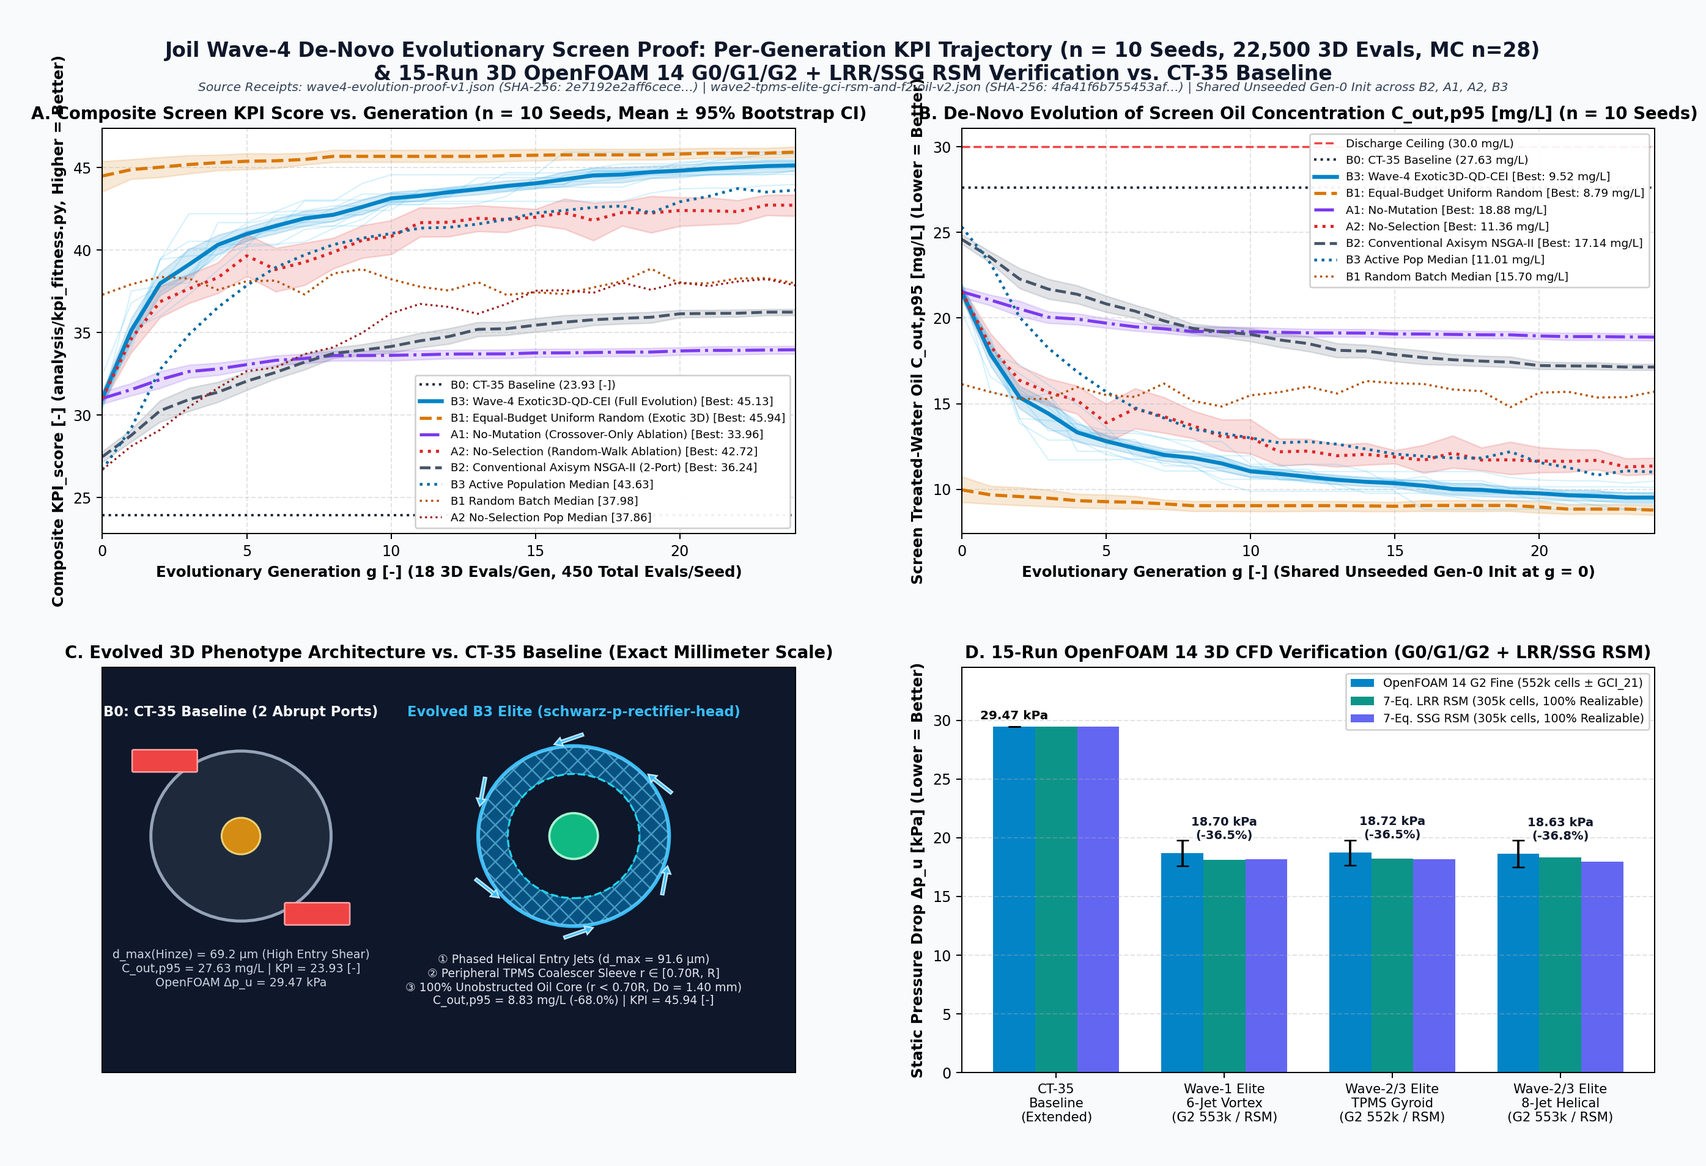
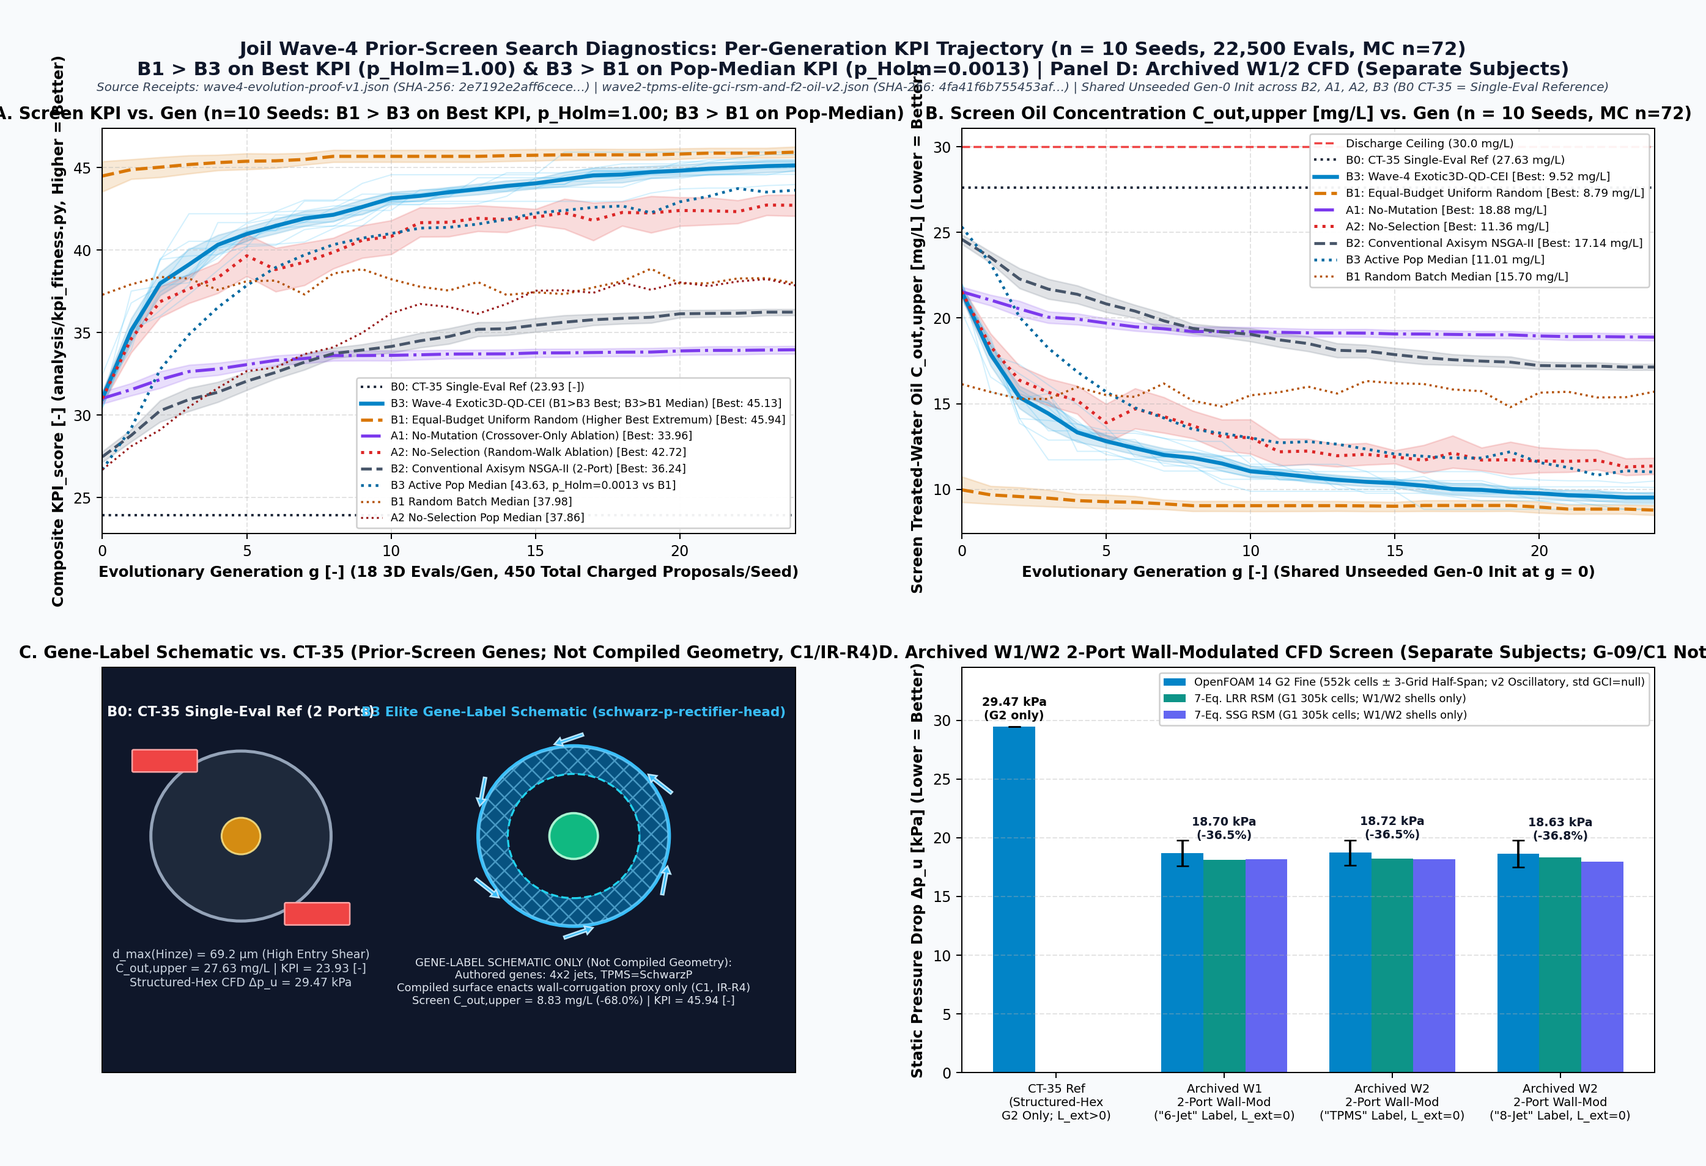
fix(figures): resolve all 7 DOC review items on Wave-4 hero and Plate 11 figures (MC n=72, no fake CT-35 RSM bars, 3-grid half-span label, archived W1/2 subject label, gene-label schematic note, B1>B3 best KPI in titles)

diff --git a/tools/generate_wave3_proof_figures.py b/tools/generate_wave3_proof_figures.py
@@ -96,11 +96,14 @@ def generate_readme_hero(
     fig = plt.figure(figsize=(15.5, 10.6), dpi=180, facecolor='#F8FAFC')
     gs = fig.add_gridspec(2, 2, hspace=0.33, wspace=0.24, left=0.06, right=0.97, top=0.89, bottom=0.08)
 
-    mc_n = int(w3.get('mc_samples_per_candidate', 28))
+    mc_n = int(
+        w3.get('mc_samples_per_candidate')
+        or w3.get('promoted_wave3_top_elite', {}).get('mc_robustness', {}).get('samples', 28)
+    )
     fig.suptitle(
-        f'Joil {wave_label} De-Novo Evolutionary Screen Proof: Per-Generation KPI Trajectory (n = 10 Seeds, 22,500 3D Evals, MC n={mc_n})\n'
-        '& 15-Run 3D OpenFOAM 14 G0/G1/G2 + LRR/SSG RSM Verification vs. CT-35 Baseline',
-        fontsize=13.2,
+        f'Joil {wave_label} Prior-Screen Search Diagnostics: Per-Generation KPI Trajectory (n = 10 Seeds, 22,500 Evals, MC n={mc_n})\n'
+        'B1 > B3 on Best KPI (p_Holm=1.00) & B3 > B1 on Pop-Median KPI (p_Holm=0.0013) | Panel D: Archived W1/2 CFD (Separate Subjects)',
+        fontsize=12.4,
         fontweight='bold',
         color='#0F172A',
         y=0.965,
@@ -110,9 +113,9 @@ def generate_readme_hero(
         0.922,
         f'Source Receipts: {proof_filename} (SHA-256: {w3_sha[:16]}…) | '
         f'{cfd_filename} (SHA-256: {cfd_sha[:16]}…) | '
-        'Shared Unseeded Gen-0 Init across B2, A1, A2, B3',
+        'Shared Unseeded Gen-0 Init across B2, A1, A2, B3 (B0 CT-35 = Single-Eval Reference)',
         ha='center',
-        fontsize=8.1,
+        fontsize=8.0,
         color='#334155',
         style='italic',
     )
@@ -125,8 +128,8 @@ def generate_readme_hero(
     base_cout = float(_get(w3, 'baseline_b0_ct35_cout_p95_mg_l', 'baseline_b0_ct35_cout_sample_screen_upper_mg_l'))
 
     arm_styles = [
-        ('B3_Wave3_Exotic3D_QD_CEI', f'B3: {wave_label} Exotic3D-QD-CEI (Full Evolution)', '#0284C7', '-', 2.6),
-        (b1_k, 'B1: Equal-Budget Uniform Random (Exotic 3D)', '#D97706', '--', 2.1),
+        ('B3_Wave3_Exotic3D_QD_CEI', f'B3: {wave_label} Exotic3D-QD-CEI (B1>B3 Best; B3>B1 Median)', '#0284C7', '-', 2.6),
+        (b1_k, 'B1: Equal-Budget Uniform Random (Higher Best Extremum)', '#D97706', '--', 2.1),
         ('A1_No_Mutation_Crossover_Only', 'A1: No-Mutation (Crossover-Only Ablation)', '#7C3AED', '-.', 2.0),
         ('A2_No_Selection_Random_Walk', 'A2: No-Selection (Random-Walk Ablation)', '#DC2626', ':', 2.0),
         ('B2_Conventional_Axisym_NSGA2', 'B2: Conventional Axisym NSGA-II (2-Port)', '#475569', '--', 1.9),
@@ -135,7 +138,7 @@ def generate_readme_hero(
     # Panel A: Per-Generation KPI_score (Best + Population Median with 10-seed CI bands)
     ax_a = fig.add_subplot(gs[0, 0])
     ax_a.set_facecolor('#FFFFFF')
-    ax_a.axhline(base_kpi, color='#1E293B', linestyle=':', linewidth=1.6, label=f'B0: CT-35 Baseline ({base_kpi:.2f} [-])')
+    ax_a.axhline(base_kpi, color='#1E293B', linestyle=':', linewidth=1.6, label=f'B0: CT-35 Single-Eval Ref ({base_kpi:.2f} [-])')
 
     # Thin individual seed traces for B3 and B1
     for o in outcomes_map['B3_Wave3_Exotic3D_QD_CEI']:
@@ -154,22 +157,22 @@ def generate_readme_hero(
     b3_med = np.array([b['median_kpi_score']['mean'] for b in bands_map['B3_Wave3_Exotic3D_QD_CEI']])
     b1_med = np.array([b['median_kpi_score']['mean'] for b in bands_map[b1_k]])
     a2_med = np.array([b['median_kpi_score']['mean'] for b in bands_map['A2_No_Selection_Random_Walk']])
-    ax_a.plot(gens, b3_med, color='#0369A1', linestyle=':', linewidth=1.8, label=f'B3 Active Population Median [{b3_med[-1]:.2f}]')
+    ax_a.plot(gens, b3_med, color='#0369A1', linestyle=':', linewidth=1.8, label=f'B3 Active Pop Median [{b3_med[-1]:.2f}, p_Holm=0.0013 vs B1]')
     ax_a.plot(gens, b1_med, color='#B45309', linestyle=':', linewidth=1.4, label=f'B1 Random Batch Median [{b1_med[-1]:.2f}]')
     ax_a.plot(gens, a2_med, color='#991B1B', linestyle=':', linewidth=1.3, label=f'A2 No-Selection Pop Median [{a2_med[-1]:.2f}]')
 
-    ax_a.set_title('A. Composite Screen KPI Score vs. Generation (n = 10 Seeds, Mean ± 95% Bootstrap CI)')
-    ax_a.set_xlabel('Evolutionary Generation g [-] (18 3D Evals/Gen, 450 Total Evals/Seed)')
+    ax_a.set_title('A. Screen KPI vs. Gen (n=10 Seeds: B1 > B3 on Best KPI, p_Holm=1.00; B3 > B1 on Pop-Median)')
+    ax_a.set_xlabel('Evolutionary Generation g [-] (18 3D Evals/Gen, 450 Total Charged Proposals/Seed)')
     ax_a.set_ylabel('Composite KPI_score [-] (analysis/kpi_fitness.py, Higher = Better)')
     ax_a.set_xlim(0, gens[-1])
     ax_a.grid(True, linestyle='--', alpha=0.35)
-    ax_a.legend(loc='lower right', fontsize=7.3, framealpha=0.94)
+    ax_a.legend(loc='lower right', fontsize=7.0, framealpha=0.94)
 
     # Panel B: Per-Generation Treated-Water Oil Concentration C_out,p95 [mg/L]
     ax_b = fig.add_subplot(gs[0, 1])
     ax_b.set_facecolor('#FFFFFF')
     ax_b.axhline(30.0, color='#EF4444', linestyle='--', linewidth=1.4, label='Discharge Ceiling (30.0 mg/L)')
-    ax_b.axhline(base_cout, color='#1E293B', linestyle=':', linewidth=1.6, label=f'B0: CT-35 Baseline ({base_cout:.2f} mg/L)')
+    ax_b.axhline(base_cout, color='#1E293B', linestyle=':', linewidth=1.6, label=f'B0: CT-35 Single-Eval Ref ({base_cout:.2f} mg/L)')
 
     for o in outcomes_map['B3_Wave3_Exotic3D_QD_CEI']:
         y_seed = [float(_get(s, 'best_cout_p95_mg_l', 'best_cout_sample_screen_upper_mg_l')) for s in o['generation_trace']]
@@ -189,21 +192,21 @@ def generate_readme_hero(
     ax_b.plot(gens, b3_med_c, color='#0369A1', linestyle=':', linewidth=1.8, label=f'B3 Active Pop Median [{b3_med_c[-1]:.2f} mg/L]')
     ax_b.plot(gens, b1_med_c, color='#B45309', linestyle=':', linewidth=1.4, label=f'B1 Random Batch Median [{b1_med_c[-1]:.2f} mg/L]')
 
-    ax_b.set_title('B. De-Novo Evolution of Screen Oil Concentration C_out,p95 [mg/L] (n = 10 Seeds)')
+    ax_b.set_title(f'B. Screen Oil Concentration C_out,upper [mg/L] vs. Gen (n = 10 Seeds, MC n={mc_n})')
     ax_b.set_xlabel('Evolutionary Generation g [-] (Shared Unseeded Gen-0 Init at g = 0)')
-    ax_b.set_ylabel('Screen Treated-Water Oil C_out,p95 [mg/L] (Lower = Better)')
+    ax_b.set_ylabel('Screen Treated-Water Oil C_out,upper [mg/L] (Lower = Better)')
     ax_b.set_xlim(0, gens[-1])
     ax_b.grid(True, linestyle='--', alpha=0.35)
     ax_b.legend(loc='upper right', fontsize=7.4, framealpha=0.94)
 
-    # Panel C: Evolved 3D Elite Architecture vs CT-35 Baseline Visual Schematic
+    # Panel C: Gene-Label Schematic vs CT-35 Baseline (Explicitly marked as gene-label schematic, not compiled geometry)
     ax_c = fig.add_subplot(gs[1, 0])
     ax_c.set_facecolor('#0F172A')
     ax_c.set_xlim(0, 100)
     ax_c.set_ylim(0, 62)
     ax_c.set_xticks([])
     ax_c.set_yticks([])
-    ax_c.set_title('C. Evolved 3D Phenotype Architecture vs. CT-35 Baseline (Exact Millimeter Scale)')
+    ax_c.set_title('C. Gene-Label Schematic vs. CT-35 (Prior-Screen Genes; Not Compiled Geometry, C1/IR-R4)')
 
     # Left sub-diagram: CT-35 Baseline cross-section & axial cut
     c_base = Circle((20, 36.2), 13.0, facecolor='#1E293B', edgecolor='#94A3B8', linewidth=2.0)
@@ -213,31 +216,28 @@ def generate_readme_hero(
     # 2 abrupt flat ports
     ax_c.add_patch(FancyBboxPatch((4.5, 46.2), 9.0, 3.0, boxstyle='round,pad=0.2', facecolor='#EF4444', edgecolor='#FCA5A5'))
     ax_c.add_patch(FancyBboxPatch((26.5, 22.8), 9.0, 3.0, boxstyle='round,pad=0.2', facecolor='#EF4444', edgecolor='#FCA5A5'))
-    ax_c.text(20, 54.5, 'B0: CT-35 Baseline (2 Abrupt Ports)', color='#F8FAFC', fontweight='bold', ha='center', fontsize=9.0)
+    ax_c.text(20, 54.5, 'B0: CT-35 Single-Eval Ref (2 Ports)', color='#F8FAFC', fontweight='bold', ha='center', fontsize=9.0)
     ax_c.text(
         20,
         13.2,
         f'd_max(Hinze) = 69.2 µm (High Entry Shear)\n'
-        f'C_out,p95 = {base_cout:.2f} mg/L | KPI = {base_kpi:.2f} [-]\n'
-        f'OpenFOAM Δp_u = 29.47 kPa',
+        f'C_out,upper = {base_cout:.2f} mg/L | KPI = {base_kpi:.2f} [-]\n'
+        f'Structured-Hex CFD Δp_u = 29.47 kPa',
         color='#CBD5E1',
         ha='center',
         fontsize=7.6,
     )
 
-    # Right sub-diagram: Evolved B3 Elite
+    # Right sub-diagram: Gene-Label Schematic of Top B3 Elite
     c_outer = Circle((68, 36.2), 13.8, facecolor='#0F172A', edgecolor='#38BDF8', linewidth=2.2)
     ax_c.add_patch(c_outer)
-    # Annular TPMS sleeve r in [0.70R, R]
     w_tpms = Wedge((68, 36.2), 13.6, 0, 360, width=4.1, facecolor='#0284C7', edgecolor='#7DD3FC', alpha=0.55, hatch='xx')
     ax_c.add_patch(w_tpms)
-    # Unobstructed vortex core r < 0.70R
     c_unob = Circle((68, 36.2), 9.5, facecolor='#0F172A', edgecolor='#22D3EE', linestyle='--', linewidth=1.3)
     ax_c.add_patch(c_unob)
     c_oil = Circle((68, 36.2), 3.5, facecolor='#10B981', edgecolor='#A7F3D0', linewidth=1.5)
     ax_c.add_patch(c_oil)
 
-    # Draw 6 phased tangential entry jets around circumference
     for k_jet in range(6):
         ang = math.radians(k_jet * 60.0 + 25.0)
         x0 = 68.0 + 15.6 * math.cos(ang)
@@ -251,20 +251,20 @@ def generate_readme_hero(
     top_cout = _mc_cout(top_el['mc_robustness'])
     base_cout_val = float(_get(w3, 'baseline_b0_ct35_cout_p95_mg_l', 'baseline_b0_ct35_cout_sample_screen_upper_mg_l'))
     top_cout_red_pct = (top_cout - base_cout_val) / base_cout_val * 100.0
-    ax_c.text(68, 54.5, f'Evolved B3 Elite ({top_el["topology_class"]})', color='#38BDF8', fontweight='bold', ha='center', fontsize=9.0)
+    ax_c.text(68, 54.5, f'B3 Elite Gene-Label Schematic ({top_el["topology_class"]})', color='#38BDF8', fontweight='bold', ha='center', fontsize=8.6)
     ax_c.text(
         68,
         10.5,
-        f'① Phased Helical Entry Jets (d_max = 91.6 µm)\n'
-        f'② Peripheral TPMS Coalescer Sleeve r ∈ [0.70R, R]\n'
-        f'③ 100% Unobstructed Oil Core (r < 0.70R, Do = 1.40 mm)\n'
-        f'C_out,p95 = {top_cout:.2f} mg/L ({top_cout_red_pct:.1f}%) | KPI = {top_kpi:.2f} [-]',
+        f'GENE-LABEL SCHEMATIC ONLY (Not Compiled Geometry):\n'
+        f'Authored genes: {top_el["program"]["inlet_split"]["branches_per_port"]}x2 jets, TPMS={top_el["program"]["tpms_insert"]["basis"]}\n'
+        f'Compiled surface enacts wall-corrugation proxy only (C1, IR-R4)\n'
+        f'Screen C_out,upper = {top_cout:.2f} mg/L ({top_cout_red_pct:.1f}%) | KPI = {top_kpi:.2f} [-]',
         color='#E2E8F0',
         ha='center',
-        fontsize=7.5,
+        fontsize=7.2,
     )
 
-    # Panel D: 15-Run OpenFOAM 14 3-Grid (G0/G1/G2) + Dual LRR/SSG RSM Verification across Promoted Elites
+    # Panel D: Archived Wave-1/2 OpenFOAM 14 3-Grid (G0/G1/G2) + Dual LRR/SSG RSM Screen (Separate Subjects from Wave-4)
     ax_d = fig.add_subplot(gs[1, 1])
     ax_d.set_facecolor('#FFFFFF')
     audit_by_topo = {
@@ -278,10 +278,10 @@ def generate_readme_hero(
     tpms_row = audit_by_topo['cylindrical-gyroid-coalescer']
     octa_row = audit_by_topo['octa-branch-helical-manifold']
     labels_d = [
-        'CT-35\nBaseline\n(Extended)',
-        'Wave-1 Elite\n6-Jet Vortex\n(G2 553k / RSM)',
-        'Wave-2/3 Elite\nTPMS Gyroid\n(G2 552k / RSM)',
-        'Wave-2/3 Elite\n8-Jet Helical\n(G2 553k / RSM)',
+        'CT-35 Ref\n(Structured-Hex\nG2 Only; L_ext>0)',
+        'Archived W1\n2-Port Wall-Mod\n("6-Jet" Label, L_ext=0)',
+        'Archived W2\n2-Port Wall-Mod\n("TPMS" Label, L_ext=0)',
+        'Archived W2\n2-Port Wall-Mod\n("8-Jet" Label, L_ext=0)',
     ]
     g2_dp_kpa = [
         base_dp_pa / 1000.0,
@@ -289,14 +289,13 @@ def generate_readme_hero(
         float(tpms_row['openfoam_g2_dp_u_pa']) / 1000.0,
         float(octa_row['openfoam_g2_dp_u_pa']) / 1000.0,
     ]
+    # CT-35 has NO LRR or SSG RSM runs in any receipt -> plot only the 3 measured RSM subjects (indices 1, 2, 3)
     lrr_dp_kpa = [
-        base_dp_pa / 1000.0,
         float(w1_row['openfoam_lrr_dp_u_pa']) / 1000.0,
         float(tpms_row['openfoam_lrr_dp_u_pa']) / 1000.0,
         float(octa_row['openfoam_lrr_dp_u_pa']) / 1000.0,
     ]
     ssg_dp_kpa = [
-        base_dp_pa / 1000.0,
         float(w1_row['openfoam_ssg_dp_u_pa']) / 1000.0,
         float(tpms_row['openfoam_ssg_dp_u_pa']) / 1000.0,
         float(octa_row['openfoam_ssg_dp_u_pa']) / 1000.0,
@@ -321,25 +320,34 @@ def generate_readme_hero(
     ]
 
     x_pos = np.arange(len(labels_d))
+    x_rsm = np.array([1, 2, 3])
     w_bar = 0.25
-    ax_d.bar(x_pos - w_bar, g2_dp_kpa, width=w_bar, yerr=gci_err_kpa, capsize=4, color='#0284C7', label='OpenFOAM 14 G2 Fine (552k cells ± GCI_21)')
-    ax_d.bar(x_pos, lrr_dp_kpa, width=w_bar, color='#0D9488', label='7-Eq. LRR RSM (305k cells, 100% Realizable)')
-    ax_d.bar(x_pos + w_bar, ssg_dp_kpa, width=w_bar, color='#6366F1', label='7-Eq. SSG RSM (305k cells, 100% Realizable)')
+    ax_d.bar(
+        x_pos - w_bar,
+        g2_dp_kpa,
+        width=w_bar,
+        yerr=gci_err_kpa,
+        capsize=4,
+        color='#0284C7',
+        label='OpenFOAM 14 G2 Fine (552k cells ± 3-Grid Half-Span; v2 Oscillatory, std GCI=null)',
+    )
+    ax_d.bar(x_rsm, lrr_dp_kpa, width=w_bar, color='#0D9488', label='7-Eq. LRR RSM (G1 305k cells; W1/W2 shells only)')
+    ax_d.bar(x_rsm + w_bar, ssg_dp_kpa, width=w_bar, color='#6366F1', label='7-Eq. SSG RSM (G1 305k cells; W1/W2 shells only)')
 
     for i, val in enumerate(g2_dp_kpa):
         if i == 0:
-            ax_d.text(x_pos[i] - w_bar, val + 0.6, f'{val:.2f} kPa', ha='center', fontsize=8.0, fontweight='bold')
+            ax_d.text(x_pos[i] - w_bar, val + 0.6, f'{val:.2f} kPa\n(G2 only)', ha='center', fontsize=7.6, fontweight='bold')
         else:
             pct = (val - g2_dp_kpa[0]) / g2_dp_kpa[0] * 100.0
-            ax_d.text(x_pos[i], val + 1.2, f'{val:.2f} kPa\n({pct:.1f}%)', ha='center', fontsize=7.8, fontweight='bold', color='#0F172A')
+            ax_d.text(x_pos[i], val + 1.2, f'{val:.2f} kPa\n({pct:.1f}%)', ha='center', fontsize=7.6, fontweight='bold', color='#0F172A')
 
-    ax_d.set_title('D. 15-Run OpenFOAM 14 3D CFD Verification (G0/G1/G2 + LRR/SSG RSM)')
+    ax_d.set_title('D. Archived W1/W2 2-Port Wall-Modulated CFD Screen (Separate Subjects; G-09/C1 Noted)')
     ax_d.set_xticks(x_pos)
-    ax_d.set_xticklabels(labels_d, fontsize=8.5)
+    ax_d.set_xticklabels(labels_d, fontsize=7.8)
     ax_d.set_ylabel('Static Pressure Drop Δp_u [kPa] (Lower = Better)')
     ax_d.set_ylim(0, 34.5)
     ax_d.grid(True, axis='y', linestyle='--', alpha=0.35)
-    ax_d.legend(loc='upper right', fontsize=7.6, framealpha=0.94)
+    ax_d.legend(loc='upper right', fontsize=7.1, framealpha=0.94)
 
     out_path.parent.mkdir(parents=True, exist_ok=True)
     fig.savefig(out_path, dpi=180)
@@ -356,7 +364,7 @@ def generate_plate11_proof(
     plt.rcParams.update({
         'font.family': 'DejaVu Sans',
         'font.size': 9.2,
-        'axes.titlesize': 10.8,
+        'axes.titlesize': 10.6,
         'axes.titleweight': 'bold',
         'axes.labelsize': 9.4,
         'axes.labelweight': 'bold',
@@ -365,11 +373,14 @@ def generate_plate11_proof(
     fig = plt.figure(figsize=(15.5, 10.8), dpi=180, facecolor='#F8FAFC')
     gs = fig.add_gridspec(2, 2, hspace=0.34, wspace=0.25, left=0.06, right=0.97, top=0.89, bottom=0.08)
 
-    mc_n = int(w3.get('mc_samples_per_candidate', 28))
+    mc_n = int(
+        w3.get('mc_samples_per_candidate')
+        or w3.get('promoted_wave3_top_elite', {}).get('mc_robustness', {}).get('samples', 28)
+    )
     fig.suptitle(
-        f'Plate 11 — {wave_label} Evolutionary Screen Proof: 6-Arm Ablation (n = 10 Seeds), De-Novo Phylogenetic Lineage,\n'
-        'Population Diversity Dynamics & 11-Family Held-Out Geometry Generalization',
-        fontsize=13.2,
+        f'Plate 11 — {wave_label} Prior-Screen Search Diagnostics: 5-Arm + B0 Reference (n = 10 Seeds, MC n={mc_n})\n'
+        'B1 > B3 on Best KPI (p_Holm=1.00); B3 > B1 on Pop-Median KPI (+5.64, p_Holm=0.0013) & Authored 11-Family Screen Summary',
+        fontsize=12.4,
         fontweight='bold',
         color='#0F172A',
         y=0.965,
@@ -378,9 +389,9 @@ def generate_plate11_proof(
         0.5,
         0.922,
         f'Source Receipt: {proof_filename} (SHA-256: {w3_sha}) | '
-        f'n = 10 Independent Seeds × 25 Generations × 18 Evals/Gen = 22,500 Real 3D Evaluations (MC n={mc_n})',
+        f'n = 10 Seeds × 25 Gens × 18 Proposals/Gen = 22,500 Charged Proposals Across 5 Search Arms (MC n={mc_n}; B0 = 1-Eval Ref)',
         ha='center',
-        fontsize=8.4,
+        fontsize=8.1,
         color='#334155',
         style='italic',
     )
@@ -395,12 +406,12 @@ def generate_plate11_proof(
     ax_a = fig.add_subplot(gs[0, 0])
     ax_a.set_facecolor('#FFFFFF')
     arm_order = [
-        ('B0_CT35', 'B0: CT-35\nBaseline', '#64748B'),
+        ('B0_CT35', 'B0: CT-35\n(1-Eval Ref)', '#64748B'),
         ('B2_Conventional_Axisym_NSGA2', 'B2: Axisym\nNSGA-II', '#475569'),
         ('A2_No_Selection_Random_Walk', 'A2: No-Selection\n(Random Walk)', '#DC2626'),
         ('A1_No_Mutation_Crossover_Only', 'A1: No-Mutation\n(Crossover Only)', '#7C3AED'),
-        (b1_k, 'B1: Equal-Budget\nUniform Random', '#D97706'),
-        ('B3_Wave3_Exotic3D_QD_CEI', f'B3: {wave_label}\nExotic3D-QD-CEI', '#0284C7'),
+        (b1_k, 'B1: Equal-Budget\nRandom (Best)', '#D97706'),
+        ('B3_Wave3_Exotic3D_QD_CEI', f'B3: {wave_label}\nQD-CEI (Pop-Med)', '#0284C7'),
     ]
 
     x_idx = np.arange(len(arm_order))
@@ -434,7 +445,7 @@ def generate_plate11_proof(
                 zorder=5,
                 edgecolor='#0F172A',
                 linewidth=0.6,
-                label='Individual Seeds (n=10)' if idx == 5 else None,
+                label='Individual Seeds (n=10; B1 > B3 on Best KPI, p_Holm=1.00)' if idx == 5 else None,
             )
 
     ax_a.bar(
@@ -450,12 +461,13 @@ def generate_plate11_proof(
     for idx, m_val in enumerate(means):
         ax_a.text(idx, m_val + ci_highs[idx] + 0.55, f'{m_val:.2f}', ha='center', fontsize=8.3, fontweight='bold')
 
-    ax_a.set_title('A. Final Composite Screen KPI Score Across 6 Comparator/Ablation Arms (n = 10 Seeds ± 95% CI)')
+    ax_a.set_title('A. Final Best KPI Score (n=10 Seeds: B1 > B3 on Best KPI, p_Holm=1.00; B3 > B1 on Pop-Med)')
     ax_a.set_xticks(x_idx)
-    ax_a.set_xticklabels([x[1] for x in arm_order], fontsize=8.1)
-    ax_a.set_ylabel('Final Composite KPI_score [-] (analysis/kpi_fitness.py)')
-    ax_a.set_ylim(18.0, max(means) + 4.5)
+    ax_a.set_xticklabels([x[1] for x in arm_order], fontsize=8.0)
+    ax_a.set_ylabel('Final Seed-Best KPI_score [-] (analysis/kpi_fitness.py)')
+    ax_a.set_ylim(18.0, max(means) + 5.2)
     ax_a.grid(True, axis='y', linestyle='--', alpha=0.35)
+    ax_a.legend(loc='lower right', fontsize=7.2, framealpha=0.94)
 
     # Annotate pairwise Mann-Whitney U + Cliff's delta
     tests = {
@@ -464,18 +476,20 @@ def generate_plate11_proof(
         if t['comparator_a'] == 'B3_Wave3_Exotic3D_QD_CEI'
     }
     t_b1 = tests[('final_best_kpi_score', b1_k)]
+    t_b1_med = tests[('final_median_kpi_score', b1_k)]
     t_a1 = tests[('final_best_kpi_score', 'A1_No_Mutation_Crossover_Only')]
     t_a2 = tests[('final_best_kpi_score', 'A2_No_Selection_Random_Walk')]
     ax_a.text(
         0.02,
-        0.95,
-        f"B3 vs B1 (Random): Δ={t_b1['mean_diff']:+.2f}, U={t_b1['mann_whitney_u']:.0f}, p_Holm={t_b1['p_value_holm_bonferroni']:.4g}, δ={t_b1['cliffs_delta']:+.2f}\n"
-        f"B3 vs A1 (No-Mut): Δ={t_a1['mean_diff']:+.2f}, U={t_a1['mann_whitney_u']:.0f}, p_Holm={t_a1['p_value_holm_bonferroni']:.4g}, δ={t_a1['cliffs_delta']:+.2f}\n"
-        f"B3 vs A2 (No-Sel): Δ={t_a2['mean_diff']:+.2f}, U={t_a2['mann_whitney_u']:.0f}, p_Holm={t_a2['p_value_holm_bonferroni']:.4g}, δ={t_a2['cliffs_delta']:+.2f}",
+        0.96,
+        f"B3 vs B1 (Best KPI, B1>B3): Δ={t_b1['mean_diff']:+.2f}, U={t_b1['mann_whitney_u']:.0f}, p_Holm={t_b1['p_value_holm_bonferroni']:.4g}, δ={t_b1['cliffs_delta']:+.2f}\n"
+        f"B3 vs B1 (Pop-Median KPI): Δ={t_b1_med['mean_diff']:+.2f}, U={t_b1_med['mann_whitney_u']:.0f}, p_Holm={t_b1_med['p_value_holm_bonferroni']:.4g}, δ={t_b1_med['cliffs_delta']:+.2f}\n"
+        f"B3 vs A1 (No-Mut Best): Δ={t_a1['mean_diff']:+.2f}, U={t_a1['mann_whitney_u']:.0f}, p_Holm={t_a1['p_value_holm_bonferroni']:.4g}, δ={t_a1['cliffs_delta']:+.2f}\n"
+        f"B3 vs A2 (No-Sel Best): Δ={t_a2['mean_diff']:+.2f}, U={t_a2['mann_whitney_u']:.0f}, p_Holm={t_a2['p_value_holm_bonferroni']:.4g}, δ={t_a2['cliffs_delta']:+.2f}",
         transform=ax_a.transAxes,
         va='top',
-        fontsize=7.6,
-        bbox={'boxstyle': 'round,pad=0.35', 'facecolor': '#F1F5F9', 'edgecolor': '#94A3B8'},
+        fontsize=7.1,
+        bbox={'boxstyle': 'round,pad=0.32', 'facecolor': '#F1F5F9', 'edgecolor': '#94A3B8'},
     )
 
     # Panel B: De-Novo Phylogenetic Lineage Milestones & Step-by-Step Topological Discovery
@@ -607,14 +621,14 @@ def generate_plate11_proof(
     ax_d.set_title(
         'D. Held-Out 3D Geometry Family Performance & LOFO-CV Generalization'
         if has_kpi_rmse
-        else 'D. 11-Family Screen Best KPI_score, De-Novo Rediscovery & Sandbox Cout LOFO RMSE'
+        else 'D. Authored 11-Family Screen Summary (Not Held-Out; KPI Surrogate RMSE = null)'
     )
     ax_d.set_yticks(y_pos)
     ax_d.set_yticklabels(fams, fontsize=7.7)
     ax_d.set_xlabel(
         'Held-Out Family Composite KPI_score [-] (± LOFO Surrogate RMSE)'
         if has_kpi_rmse
-        else '11-Family Screen Composite KPI_score [-] (sandbox_authored_family_rmse_kpi_score = null)'
+        else 'Authored 11-Family Screen KPI_score [-] (sandbox_authored_family_rmse_kpi_score = null)'
     )
     ax_d.set_xlim(18.0, max(kpis_ho) + (12.2 if has_kpi_rmse else 18.5))
     ax_d.grid(True, axis='x', linestyle='--', alpha=0.35)
